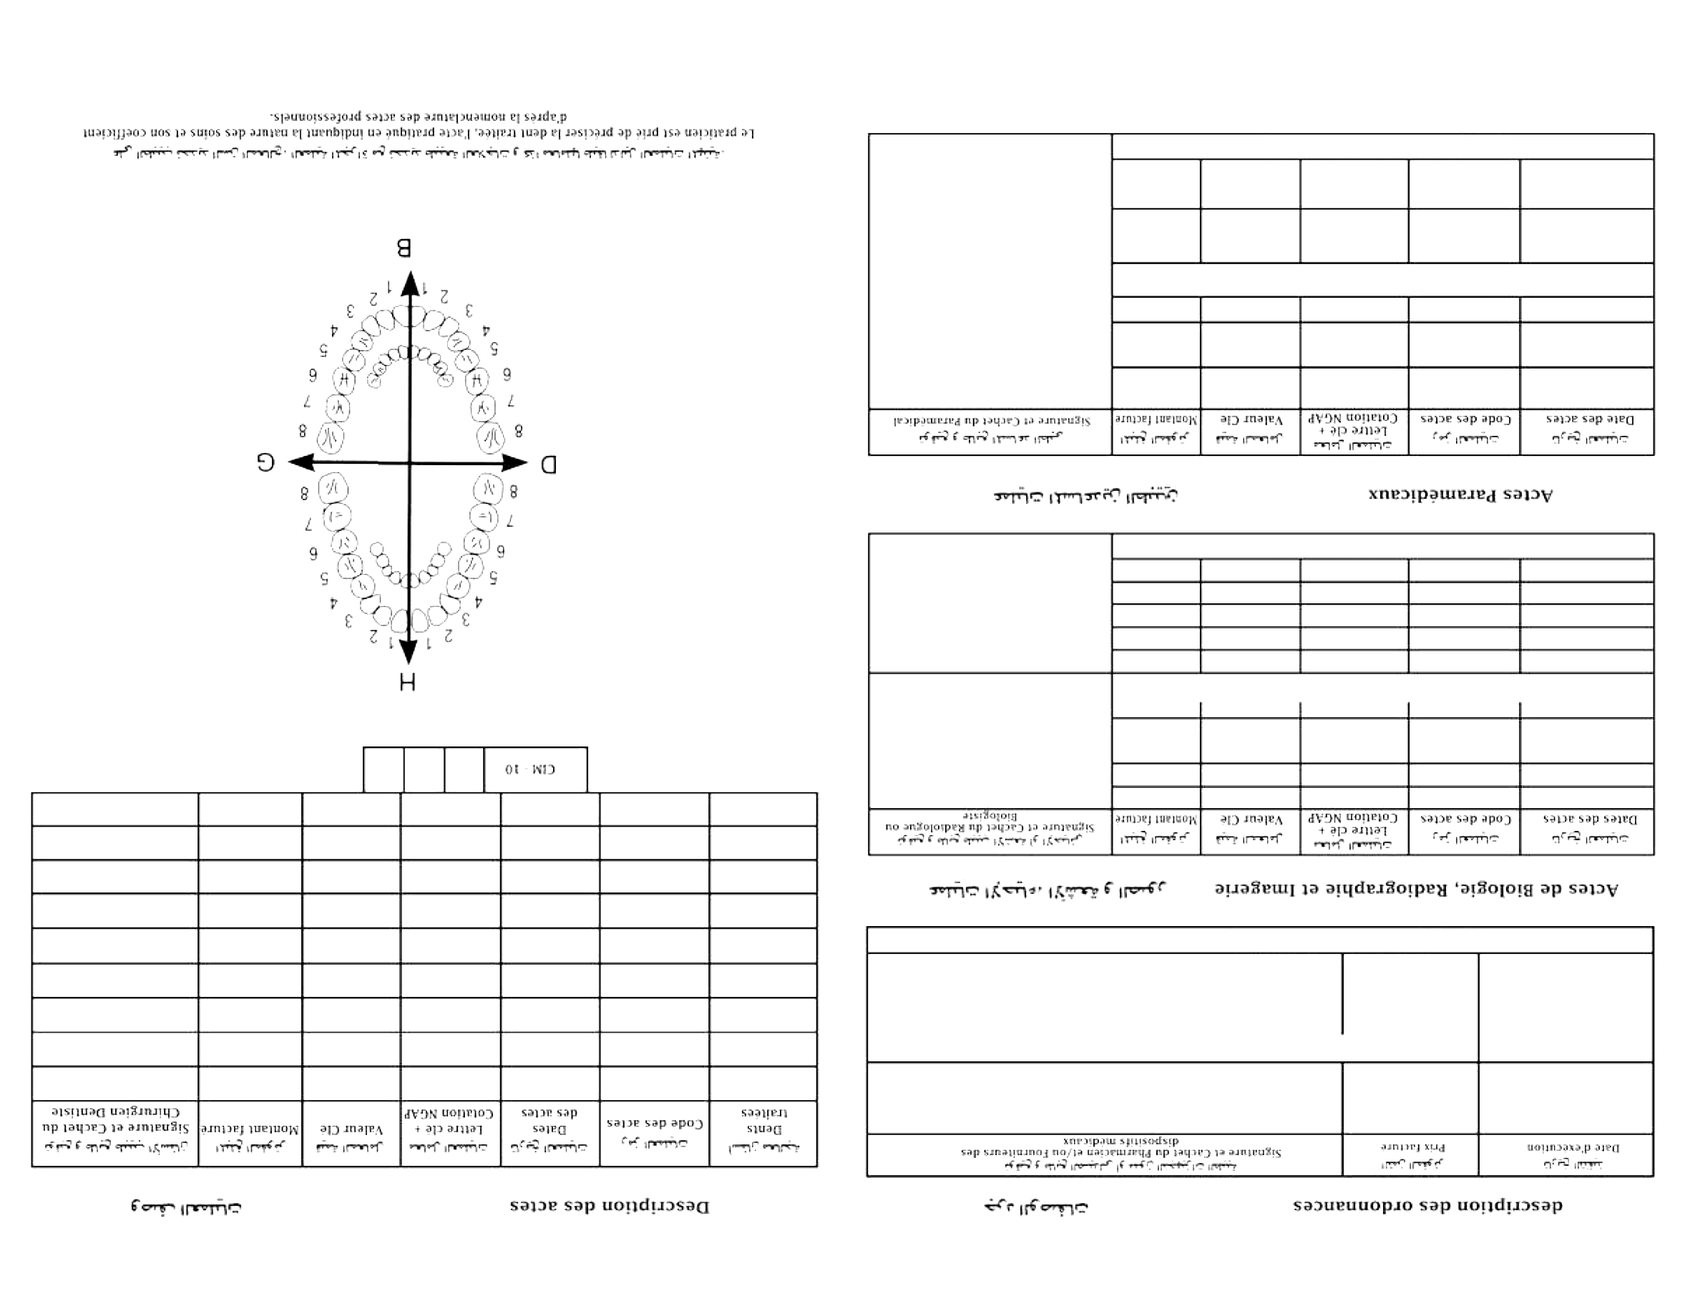
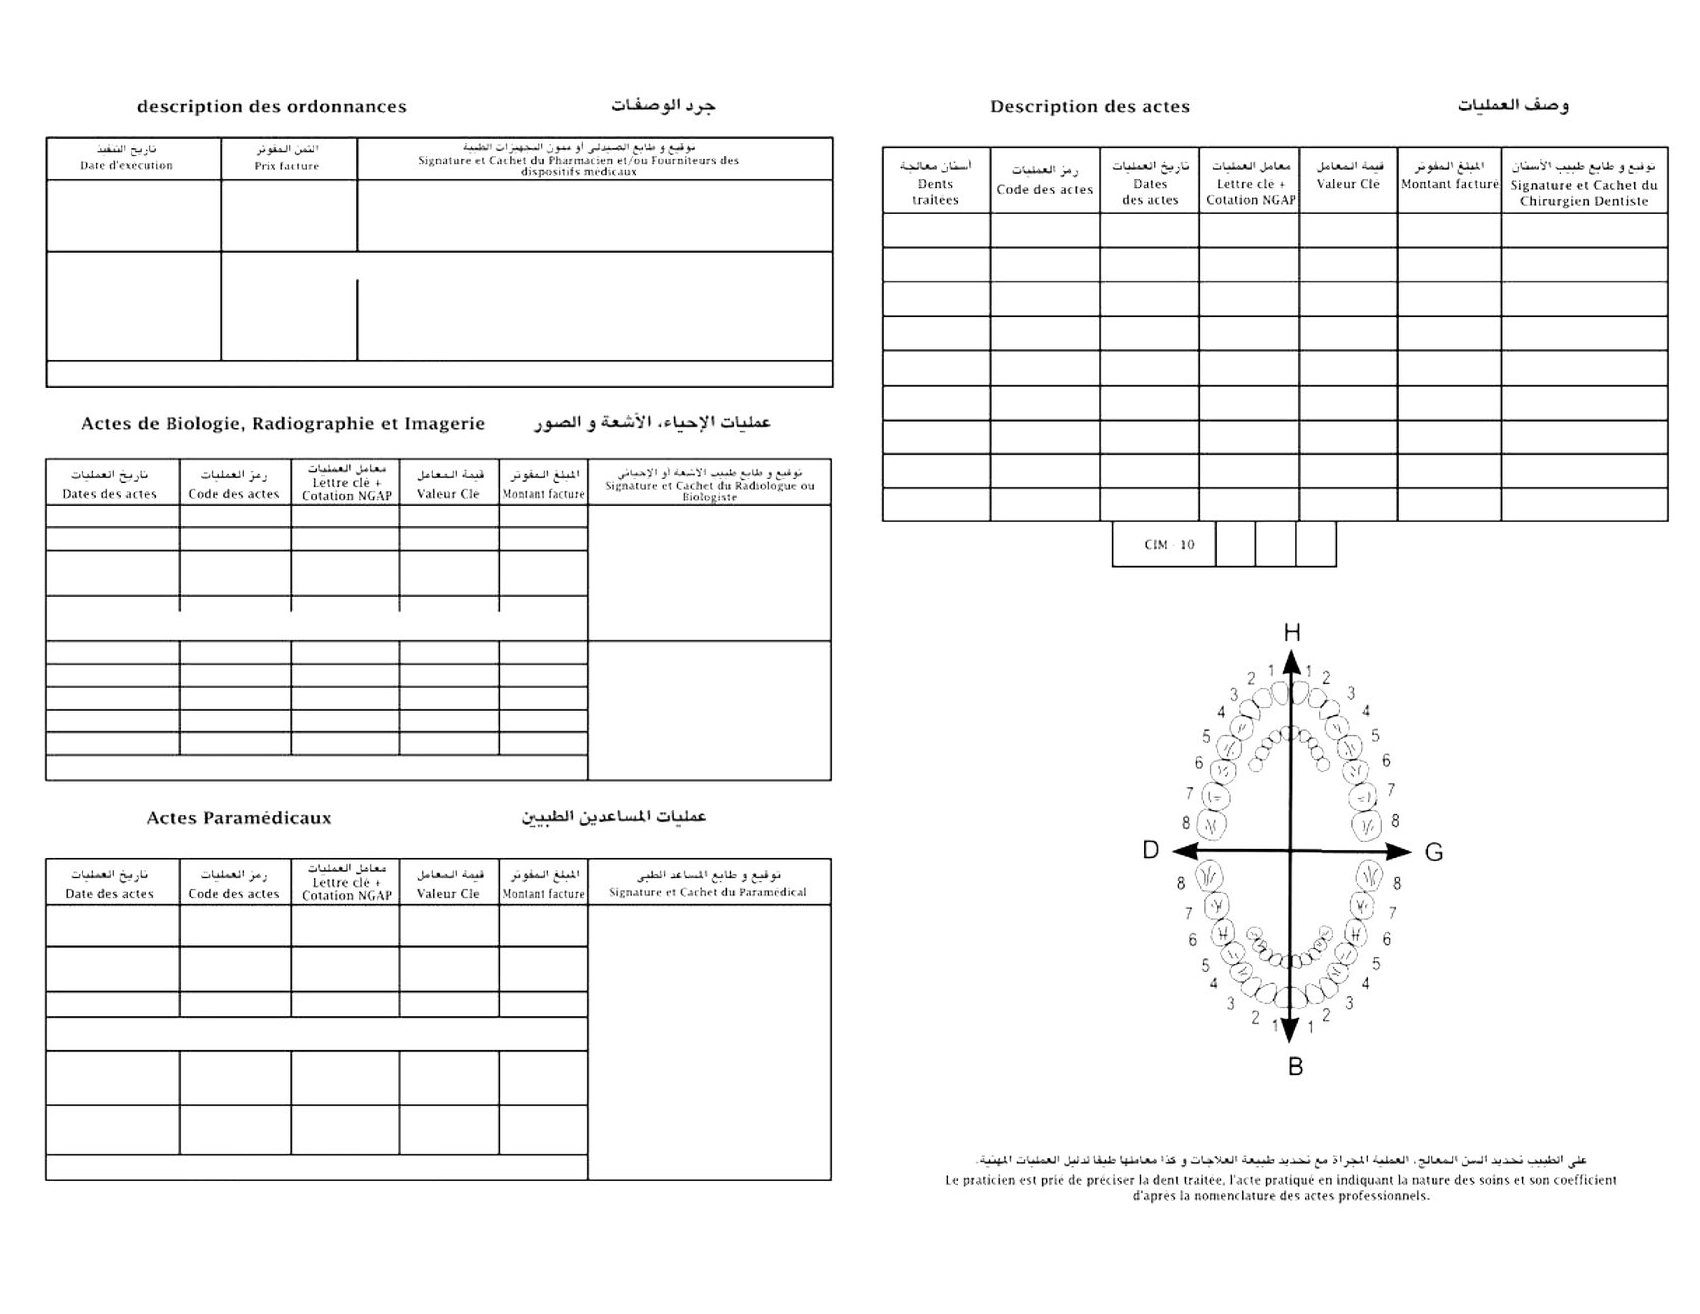
La CNSS sort sur son propre imprimé, et deux scans étaient à l'envers
Même méthode que les FAR : le fond EST la feuille de soins dentaires de la
CNSS (Réf. ANAM 1.2.03.01), scannée, et le logiciel pose dessus ce que le
praticien y écrirait.

Page 1 — la case Entente préalable ou Exécution, le bénéficiaire des soins
(nom, date de naissance, CIN, sexe), le N° INP, les quatre cases « Type de
soins », le N° d'entente, et le cadre de signature du praticien. Le cadre de
l'assuré reste vierge.

Page 2 — le tableau « Description des actes effectués », neuf lignes :
dents, code, dates, lettre clé + cotation NGAP, valeur clé, montant facturé.
Et le schéma dentaire, où la dent traitée est entourée.

Les trente-deux dents de l'arcade ne sont pas placées à l'œil : elles sont
DÉTECTÉES dans le dessin lui-même — chaque dent y est un contour fermé, on
ferme les micro-trous du scan et chaque intérieur donne un centre. Les
dents de LAIT, elles, ne sont pas marquées : l'imprimé les dessine
minuscules et à contour ouvert par endroits, et on ne les situe pas assez
sûrement pour marquer un document de remboursement. Leur numéro figure dans
la colonne « Dents traitées », qui est ce que l'organisme lit.

Au passage : les scans du CNOPS page 2 et de RMA page 2 arrivaient TÊTE-BÊCHE
dans les PDF d'origine. Le praticien aurait imprimé une page à l'envers. Ils
sont remis à l'endroit.

Le CNOPS et RMA gardent encore la reproduction en attendant leur calage.

diff --git a/app/feuille-soins/[id]/GabaritCNSS.tsx b/app/feuille-soins/[id]/GabaritCNSS.tsx
@@ -1,0 +1,161 @@
+// La « Feuille de soins dentaires » de la CNSS — Réf. ANAM 1.2.03.01.
+//
+// Le formulaire officiel lui-même, scanné, rempli par-dessus : voir
+// components/shared/FormulaireImprime.tsx. Ce fichier ne contient donc pas de
+// mise en page, seulement OÙ chaque valeur se pose sur le scan, en millièmes
+// de la largeur de la page.
+//
+// ── CE QUE LE LOGICIEL ÉCRIT, ET CE QU'IL LAISSE ────────────────────────────
+//
+// Il remplit la DÉCLARATION du chirurgien dentiste — l'imprimé veut que le
+// nom du soigné soit porté par le praticien lui-même : « Le nom et prénom de
+// la personne soignée doivent être portés par les praticiens eux mêmes sur
+// chaque feuille de soins » —, son IDENTIFICATION, le tableau des actes, le
+// schéma dentaire, et son cadre de signature.
+//
+// Il ne touche pas à « Partie réservée à l'assuré(e) » : l'assuré l'écrit de
+// sa main et signe dessous.
+import FormulaireImprime, { type MarqueFormulaire, type PageFormulaire } from '@/components/shared/FormulaireImprime'
+import { fichierPublic } from '@/lib/fichiers-publics'
+import type {
+  ActeImprime, BeneficiaireImprime, FeuilleImprimee, PraticienImprime,
+} from '@/lib/feuilles-soins'
+import type { Organisme } from '@/lib/organismes'
+
+export interface Props {
+  organisme: Organisme
+  praticien: PraticienImprime
+  patientId: string
+  beneficiaire: BeneficiaireImprime
+  feuille: FeuilleImprimee
+  actes: ActeImprime[]
+}
+
+const L = 1700
+const H = 1200
+
+const jour = (j?: string | null) => {
+  const s = String(j ?? '').slice(0, 10)
+  if (!/^\d{4}-\d{2}-\d{2}$/.test(s)) return ''
+  const [a, m, d] = s.split('-')
+  return `${d}/${m}/${a}`
+}
+/** Les huit chiffres d'une date, pour les grilles « JJ MM AAAA ». */
+const chiffres = (j?: string | null) => jour(j).replace(/\//g, '')
+const dh = (n: number) => Number(n).toLocaleString('fr-FR', { minimumFractionDigits: 2 })
+
+// ── Le schéma dentaire de la page 2 ─────────────────────────────────────────
+//
+// Les dents ne sont pas sur une grille mais DESSINÉES, en arcade. Chaque
+// centre a donc été relevé un par un sur le scan, pour la moitié droite du
+// patient ; la moitié gauche en est le miroir, l'imprimé étant symétrique —
+// et il porte ses axes pour le dire : H en haut, B en bas, D à gauche du
+// dessin, G à droite, c'est-à-dire la droite et la gauche DU PATIENT, qu'on
+// regarde en face.
+const AXE_X = 753.2
+/** Quadrant 1 — haut, droite du patient — des incisives vers le fond. */
+const HAUT_DROITE: [number, number][] = [
+  [748.6, 340.9], [739.6, 344.3], [732.9, 350.4], [729.0, 360.5],
+  [722.3, 371.3], [719.0, 385.3], [715.5, 399.4], [713.0, 415.2],
+]
+/** Quadrant 2 — haut, gauche du patient. L'arcade dessinée n'est pas
+ *  parfaitement symétrique : on relève les deux côtés plutôt que d'en
+ *  calculer un par miroir. */
+const HAUT_GAUCHE: [number, number][] = [
+  [758.8, 340.6], [768.1, 343.9], [774.7, 350.6], [778.3, 360.7],
+  [784.9, 372.5], [787.3, 385.4], [791.4, 399.8], [794.2, 416.2],
+]
+/** Quadrant 3 — bas, gauche du patient. */
+const BAS_GAUCHE: [number, number][] = [
+  [757.5, 513.7], [765.2, 510.8], [772.6, 506.3], [777.5, 497.5],
+  [782.0, 487.1], [786.9, 475.8], [790.1, 460.8], [793.8, 443.7],
+]
+/** Quadrant 4 — bas, droite du patient. */
+const BAS_DROITE: [number, number][] = [
+  [749.0, 513.6], [740.4, 511.1], [732.6, 506.9], [727.3, 498.5],
+  [723.2, 487.8], [718.4, 476.3], [715.3, 461.2], [712.1, 444.2],
+]
+
+const ARCADE: Record<number, [number, number][]> = {
+  1: HAUT_DROITE, 2: HAUT_GAUCHE, 3: BAS_GAUCHE, 4: BAS_DROITE,
+}
+
+/** Le diamètre du cercle à tracer : les incisives sont étroites, les molaires
+ *  larges. Mesuré sur le dessin, du centre vers le fond. */
+const DIAMETRE = [9, 11, 12, 13, 15, 16, 17, 18]
+
+/** Le centre d'une dent sur l'arcade dessinée.
+ *
+ *  Rien pour les dents de LAIT : l'imprimé les dessine à l'intérieur de
+ *  l'arcade, minuscules et à contour ouvert par endroits — on ne sait pas les
+ *  situer assez sûrement pour marquer un document de remboursement. Leur
+ *  numéro figure dans la colonne « Dents traitées », qui est ce que
+ *  l'organisme lit ; le praticien entoure la dent au stylo. */
+function dentSurArcade(fdi: string | null | undefined): { x: number; y: number; d: number } | null {
+  const m = /^([1-4])([1-8])$/.exec(String(fdi ?? '').trim())
+  if (!m) return null
+  const [x, y] = ARCADE[Number(m[1])][Number(m[2]) - 1]
+  return { x, y, d: DIAMETRE[Number(m[2]) - 1] }
+}
+
+export default function GabaritCNSS({ praticien, patientId, beneficiaire, feuille, actes }: Props) {
+  const items = actes.slice().sort((a, b) => a.position - b.position)
+  const coche = (t: string) => feuille.typesSoins.includes(t)
+
+  const page1: MarqueFormulaire[] = [
+    // Entente préalable ou exécution, en tête de l'imprimé.
+    feuille.nature === 'entente_prealable'
+      ? { x: 738, y: 65, signe: 'croix', largeur: 14 }
+      : { x: 827, y: 65, signe: 'croix', largeur: 14 },
+
+    // Déclaration du Chirurgien Dentiste — le bénéficiaire des soins.
+    { x: 632, y: 262, texte: beneficiaire.nom, taille: 13 },
+    { x: 752, y: 280, texte: chiffres(beneficiaire.dateNaissance), pas: 11.06, taille: 11 },
+    { x: 759.5, y: 302, texte: beneficiaire.cin, pas: 8.73, taille: 10 },
+    ...(beneficiaire.sexe === 'M' ? [{ x: 815, y: 319, signe: 'croix' as const, largeur: 11 }] : []),
+    ...(beneficiaire.sexe === 'F' ? [{ x: 869, y: 319, signe: 'croix' as const, largeur: 11 }] : []),
+
+    // Identification du Chirurgien Dentiste.
+    { x: 611.4, y: 355, texte: praticien.inpe, pas: 8.8, taille: 10 },
+    ...(coche('soins') ? [{ x: 767.5, y: 381, signe: 'croix' as const, largeur: 12 }] : []),
+    ...(coche('prothese') ? [{ x: 767.5, y: 397, signe: 'croix' as const, largeur: 12 }] : []),
+    ...(coche('orthodontie') ? [{ x: 767.5, y: 413, signe: 'croix' as const, largeur: 12 }] : []),
+    ...(coche('autres') ? [{ x: 767.5, y: 428, signe: 'croix' as const, largeur: 12 }] : []),
+    { x: 741.8, y: 450, texte: feuille.ententeNo, pas: 8.8, taille: 10 },
+
+    // Le cadre de signature du praticien — celui de droite. Celui de gauche
+    // est à l'assuré, et reste vierge.
+    { x: 835, y: 504, texte: praticien.ville, taille: 12 },
+    { x: 834, y: 523, texte: chiffres(feuille.jour), pas: 10.8, taille: 11 },
+  ]
+
+  const LIGNES = [84.7, 107.7, 130.7, 155.1, 178.1, 201.1, 225.5, 248.5, 271.5]
+  const page2: MarqueFormulaire[] = [
+    ...items.slice(0, LIGNES.length).flatMap((a, i): MarqueFormulaire[] => {
+      const y = LIGNES[i]
+      return [
+        { x: 591.5, y, texte: a.tooth ?? '', taille: 12, ancre: 'middle' },
+        { x: 638, y, texte: a.code ?? '', taille: 12, ancre: 'middle' },
+        { x: 687, y, texte: jour(a.acte_date) || jour(feuille.jour), taille: 10, ancre: 'middle' },
+        { x: 737, y, texte: a.coefficient ? `${a.lettre_cle ?? ''} ${a.coefficient}`.trim() : '', taille: 12, ancre: 'middle' },
+        { x: 785, y, texte: a.valeur_cle != null ? String(a.valeur_cle) : '', taille: 12, ancre: 'middle' },
+        { x: 852, y, texte: dh(a.amount), taille: 12, ancre: 'end' },
+      ]
+    }),
+    // Le libellé de l'acte ne s'écrit nulle part : l'imprimé de l'ANAM ne lui
+    // donne pas de colonne — il veut un code et une cotation, pas une phrase.
+
+    // Le schéma : « Le praticien est prié de préciser la dent traitée. »
+    ...items.flatMap((a): MarqueFormulaire[] => {
+      const d = dentSurArcade(a.tooth)
+      return d ? [{ x: d.x, y: d.y, signe: 'cercle', largeur: d.d }] : []
+    }),
+  ]
+
+  const pages: PageFormulaire[] = [
+    { image: fichierPublic('/formulaires/cnss-1.jpg'), largeur: L, hauteur: H, marques: page1 },
+    { image: fichierPublic('/formulaires/cnss-2.jpg'), largeur: L, hauteur: H, marques: page2 },
+  ]
+
+  return <FormulaireImprime pages={pages} orientation="landscape" retourHref={`/patients/${patientId}`} />
+}

diff --git a/app/feuille-soins/[id]/page.tsx b/app/feuille-soins/[id]/page.tsx
@@ -18,6 +18,7 @@ import { colonneAbsente } from '@/lib/migrations'
 import { FeuilleDocument, type LigneSoin } from './FeuilleDocument'
 import { type ActeImprime } from '@/lib/feuilles-soins'
 import GabaritANAM from './GabaritANAM'
+import GabaritCNSS from './GabaritCNSS'
 import GabaritFAR from './GabaritFAR'
 import GabaritRMA from './GabaritRMA'
 
@@ -138,6 +139,9 @@ export default async function FeuilleSoinsPage({ params }: { params: { id: strin
 
     if (organisme.gabarit === 'rma') return <GabaritRMA {...commun} />
     if (organisme.gabarit === 'far') return <GabaritFAR {...commun} />
+    // La CNSS sort sur SON imprimé, scanné et rempli. Le CNOPS garde encore
+    // la reproduction : son formulaire est en cours de calage, case par case.
+    if (organisme.cle === 'cnss') return <GabaritCNSS {...commun} />
     return <GabaritANAM {...commun} />
   }
 
